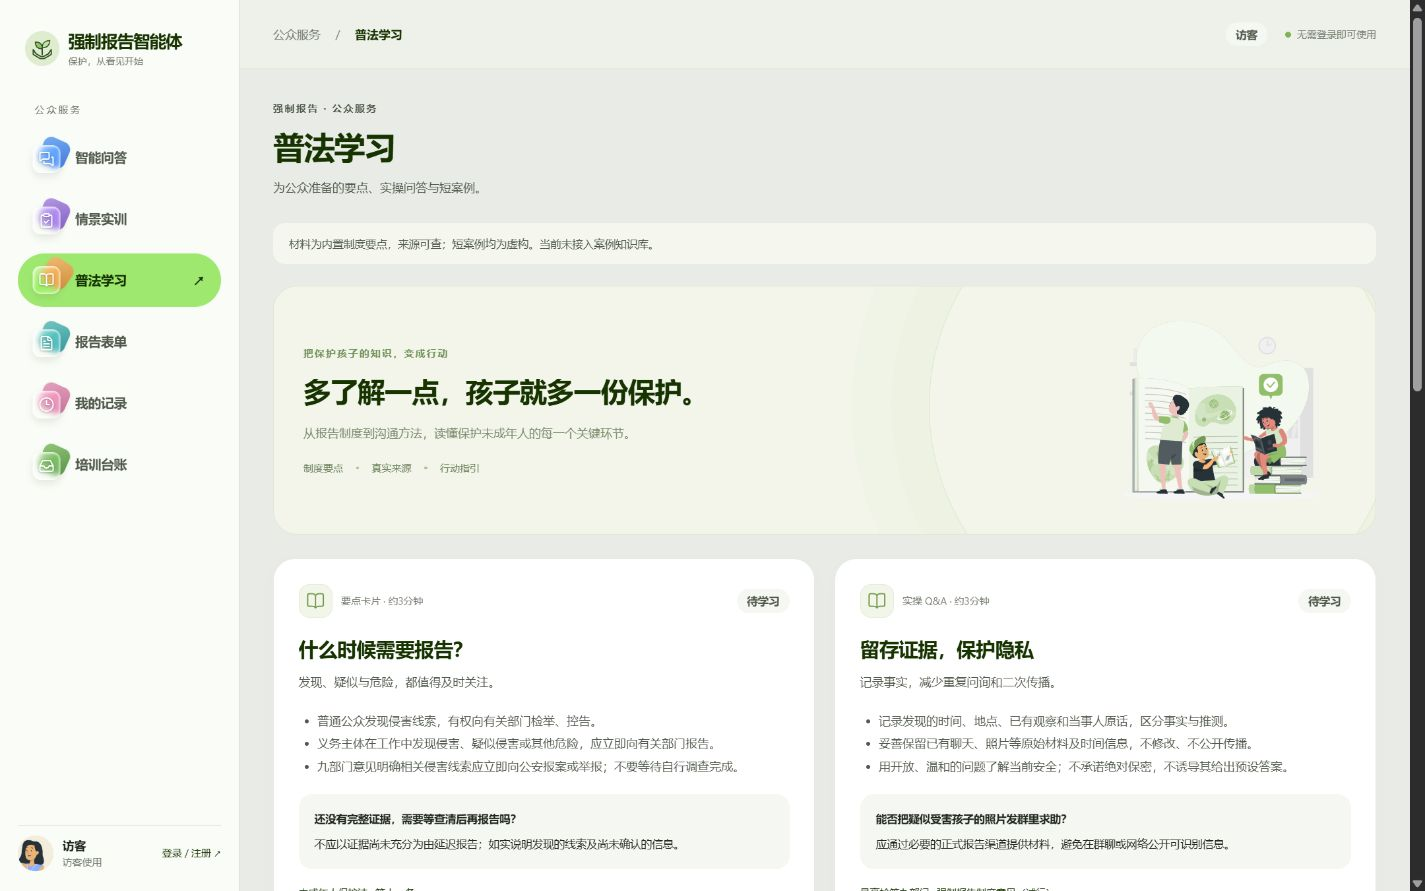
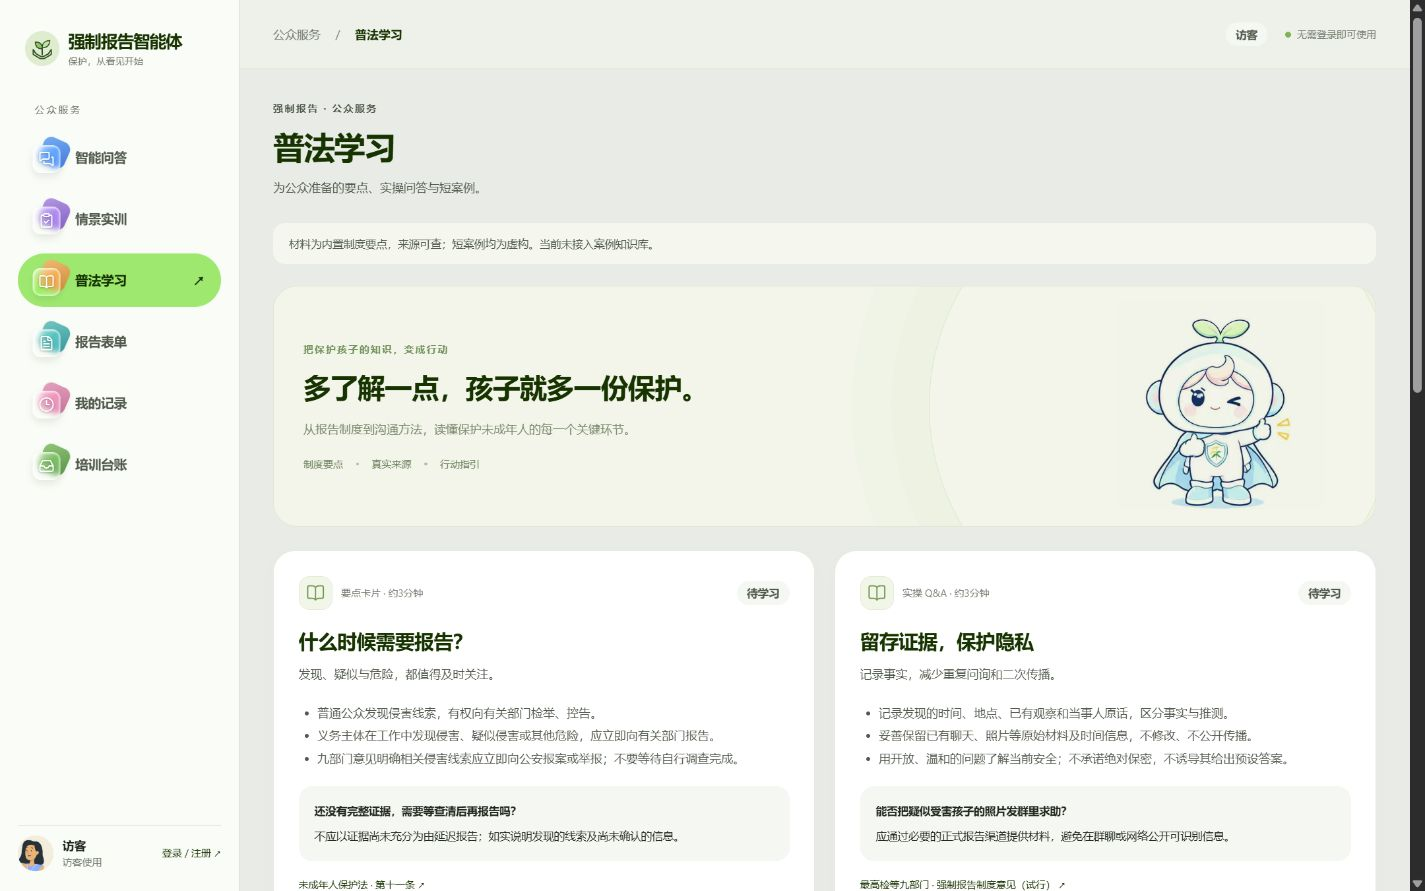
Extend mascot illustrations to learning and report guidance

diff --git a/public/visual.js b/public/visual.js
@@ -4,8 +4,8 @@ const motion = matchMedia('(prefers-reduced-motion: reduce)');
 const observed = new WeakSet();
 let installed = false, frame = 0, lastCard = null;
 export const art = (name, className = '', eager = false) => {
-  // Project-supplied artwork; the sheet's bottom-right pose greets new visitors.
-  if (name === 'mascot-wave') return `<span class="theme-art mascot-art mascot-sprite ${className}" aria-hidden="true"><img src="/assets/mascot/guardian-expressions.jpg" width="1254" height="1254" alt="" decoding="async" loading="${eager ? 'eager' : 'lazy'}"></span>`;
+  // Select greeting, encouragement and protection poses from the project's 3x3 artwork.
+  if (['mascot-wave', 'mascot-encourage', 'mascot-protect'].includes(name)) return `<span class="theme-art mascot-art mascot-sprite ${name} ${className}" aria-hidden="true"><img src="/assets/mascot/guardian-expressions.jpg" width="1254" height="1254" alt="" decoding="async" loading="${eager ? 'eager' : 'lazy'}"></span>`;
   const mascots = { 'mascot-question': ['/assets/mascot/guardian-question.png', 1078, 1459], 'mascot-confident': ['/assets/mascot/guardian-confident.png', 1254, 1254] };
   if (mascots[name]) { const [src, width, height] = mascots[name]; return `<img class="theme-art mascot-art ${className}" src="${src}" width="${width}" height="${height}" alt="" aria-hidden="true" decoding="async" loading="${eager ? 'eager' : 'lazy'}">`; }
   const files = { support: '/assets/visual/children-support.svg', learning: '/assets/visual/children-learning.svg', reading: '/assets/visual/children-reading.svg' };
@@ -13,7 +13,7 @@ export const art = (name, className = '', eager = false) => {
 };
 export function banner(kind) {
   const training = kind === 'training';
-  return `<section class="children-banner ${training ? 'training-banner' : 'learning-banner'}" data-reveal><div class="children-banner-copy"><span class="visual-eyebrow">${training ? '学会倾听，练习守护' : '把保护孩子的知识，变成行动'}</span><h2>${training ? '站在孩子身边，听见每一句需要。' : '多了解一点，孩子就多一份保护。'}</h2><p>${training ? '在虚构情景中练习识别、沟通与报告，让真实的保护更有准备。' : '从报告制度到沟通方法，读懂保护未成年人的每一个关键环节。'}</p><div class="banner-points"><span>${training ? '倾听与回应' : '制度要点'}</span><i></i><span>${training ? '风险识别' : '真实来源'}</span><i></i><span>${training ? '五步实训' : '行动指引'}</span></div></div>${art(training ? 'mascot-confident' : 'reading', 'banner-art', true)}</section>`;
+  return `<section class="children-banner ${training ? 'training-banner' : 'learning-banner'}" data-reveal><div class="children-banner-copy"><span class="visual-eyebrow">${training ? '学会倾听，练习守护' : '把保护孩子的知识，变成行动'}</span><h2>${training ? '站在孩子身边，听见每一句需要。' : '多了解一点，孩子就多一份保护。'}</h2><p>${training ? '在虚构情景中练习识别、沟通与报告，让真实的保护更有准备。' : '从报告制度到沟通方法，读懂保护未成年人的每一个关键环节。'}</p><div class="banner-points"><span>${training ? '倾听与回应' : '制度要点'}</span><i></i><span>${training ? '风险识别' : '真实来源'}</span><i></i><span>${training ? '五步实训' : '行动指引'}</span></div></div>${art(training ? 'mascot-confident' : 'mascot-encourage', 'banner-art', true)}</section>`;
 }
 export function emptyArtwork(title, description) {
   return `<div class="empty illustrated-empty">${art('mascot-wave')}<div><span class="visual-eyebrow">每一次行动，都值得留下记录</span><h3>${title}</h3><p class="muted">${description}</p></div></div>`;

diff --git a/public/credits.html b/public/credits.html
@@ -11,7 +11,7 @@
     <article class="credit-item"><img class="theme-art" src="/assets/visual/children-care.svg" alt="儿科医生用玩具安抚孩子" width="500" height="500"><h2>温柔照护 · Pediatrician</h2><p>Rafiki 系列，插画来自 <a href="https://storyset.com/illustration/pediatrician/rafiki" target="_blank" rel="noopener noreferrer">Storyset</a>。按项目配色调整。</p></article>
     <article class="credit-item"><img class="theme-art" src="/assets/visual/children-play.svg" alt="两个孩子装扮成小超人和恐龙一起玩耍" width="500" height="500"><h2>安心玩耍 · Kids playing with dolls</h2><p>Rafiki 系列，插画来自 <a href="https://storyset.com/illustration/kids-playing-with-dolls/rafiki" target="_blank" rel="noopener noreferrer">Storyset</a>。按项目配色调整。</p></article>
   </section>
-  <div class="credit-note"><strong>项目守护形象</strong><p>智能问答欢迎区、情景实训和记录空状态使用项目提供的形象稿。根据场景选用疑问、守护与挥手姿态。</p></div>
+  <div class="credit-note"><strong>项目守护形象</strong><p>智能问答欢迎区、学习与实训横幅、报告引导和记录空状态使用项目提供的形象稿。根据场景选用疑问、鼓励、守护与挥手姿态。</p></div>
   <div class="credit-note"><strong>成人用户头像 · Group</strong><p>侧栏五枚成人头像裁自 <a href="https://storyset.com/illustration/group/rafiki" target="_blank" rel="noopener noreferrer">Storyset Group · Rafiki</a>，分离人物后裁切头肩、添加浅色背景。同一访客或账号保持固定头像。</p></div>
   <div class="credit-note"><strong>Illustrations by Storyset</strong><p>上述插画依据 Storyset / Freepik License 使用，并保留可见署名。<a href="https://storyset.com/faqs" target="_blank" rel="noopener noreferrer">官方许可说明</a></p></div>
   <div class="credit-note"><strong>图标与动态交互</strong><p>界面图标采用 <a href="https://lucide.dev/" target="_blank" rel="noopener noreferrer">Lucide</a>，版权归 Lucide Contributors 及相关 Feather 作者所有。<a href="/assets/visual/licenses/lucide.txt" target="_blank" rel="noopener">完整许可证</a>。</p><p>淡入与柔光交互参考 <a href="https://reactbits.dev/" target="_blank" rel="noopener noreferrer">React Bits</a> 的 Fade Content / Spotlight Card，以及 <a href="https://reactbits.dev/c/text-animations/stroke-text" target="_blank" rel="noopener noreferrer">Stroke Text</a> 逐字描边填色动画，由本项目适配为原生 CSS/JavaScript。Copyright © 2026 David Haz。<a href="/assets/visual/licenses/react-bits.txt" target="_blank" rel="noopener">完整许可证</a>。</p><p>“双手守护新芽”标识为本项目绘制；登录页人物素材由项目提供。</p></div>

diff --git a/public/report.html b/public/report.html
@@ -43,7 +43,7 @@
         </form>
       </section>
       <aside class="report-aside">
-        <section class="child-support-card" data-reveal><div id="report-support-art"></div><span class="visual-eyebrow">让每个孩子，都被温柔以待</span><h2>您看见的，值得被认真对待。</h2><p>记录已知的情况，把保护交到能够行动的人手中。</p><a class="art-credit" href="https://storyset.com/people" target="_blank" rel="noopener noreferrer">儿童主题插画：Storyset</a></section>
+        <section class="child-support-card" data-reveal><div id="report-support-art"></div><span class="visual-eyebrow">让每个孩子，都被温柔以待</span><h2>您看见的，值得被认真对待。</h2><p>记录已知的情况，把保护交到能够行动的人手中。</p></section>
         <section class="panel assistant-panel" aria-labelledby="assistant-title"><div class="assistant-heading"><span class="assistant-icon">✦</span></div><h2 id="assistant-title">不确定是否需要报告？</h2><p class="muted">先与智能助手聊聊，了解报告信号、保护措施与证据留存建议。</p><a class="text-link" href="/ask" style="margin-top:22px">进入智能问答 ↗</a><p class="assistant-disclaimer">AI仅供辅助参考，不构成法律意见。紧急危险请直接拨打110。</p></section>
         <section class="process-card" aria-labelledby="process-title"><div class="eyebrow">WHAT HAPPENS NEXT</div><h2 id="process-title">提交之后，会发生什么？</h2><ol class="process-list"><li><span>1</span><div><strong>公安接收</strong><p>线索即时进入接收工作台。</p></div></li><li><span>2</span><div><strong>研判与人工复核</strong><p>AI 提供建议，工作人员确认。</p></div></li><li><span>3</span><div><strong>处置与协同保护</strong><p>按线索情况处置、帮扶或监督。</p></div></li></ol></section>
         <div class="aside-note"><svg viewBox="0 0 24 24" fill="none" stroke="currentColor" stroke-width="1.6"><rect x="5" y="10" width="14" height="11" rx="3"/><path d="M8 10V7a4 4 0 0 1 8 0v3m-4 5v2"/></svg><p>请妥善保管报告编号与查询凭证，避免在公开场合分享线索内容。</p></div>

diff --git a/public/visual.css b/public/visual.css
@@ -43,6 +43,9 @@
 .children-banner .banner-art.mascot-art{width:210px;height:210px;justify-self:center;transform:none}
 .mascot-sprite{position:relative;overflow:hidden;aspect-ratio:1}
 .mascot-sprite>img{position:absolute;display:block;width:300%;height:300%;max-width:none;left:-200%;top:-200%;pointer-events:none;user-select:none}
+.mascot-encourage>img{top:0}.mascot-protect>img{left:0}
+.child-support-card .mascot-sprite{width:170px;height:170px;max-width:100%;margin:0 auto 12px}
 .public-page .illustrated-empty>.mascot-sprite{height:auto;aspect-ratio:1}
 @media(max-width:1199px){.public-page .welcome-art.mascot-art{width:150px;height:190px}.children-banner .banner-art.mascot-art{width:170px;height:180px}}
 @media(max-width:767px){.public-page .welcome-art.mascot-art{width:112px;height:145px}.children-banner .banner-art.mascot-art{width:124px;height:144px}}
+.children-banner .banner-art.mascot-sprite{height:auto;aspect-ratio:1}

diff --git a/public/report.js b/public/report.js
@@ -7,7 +7,7 @@ import { art, emptyArtwork, installVisuals } from "/visual.js";
 const $ = id => document.getElementById(id);
 const form = $("report-form");
 installVisuals(document.querySelector(".report-container"));
-document.getElementById("report-support-art").innerHTML = art('support', '', true);
+document.getElementById("report-support-art").innerHTML = art('mascot-protect', '', true);
 const identities = ["未成年本人", "家长/监护人", "教师/教育工作者", "医护人员", "社区工作人员", "其他"];
 const types = ["身体虐待", "性侵害", "情感/精神虐待", "忽视/疏于照料", "家庭暴力", "暴力伤害", "拐卖", "遗弃", "组织乞讨", "自杀/自残", "其他"];
 const owner = learnerId();

diff --git a/docs/UI_PREVIEW.md b/docs/UI_PREVIEW.md
@@ -1,6 +1,6 @@
 # 强制报告智能体界面预览
 
-以下为登录首页及访客进入后的主要页面截图。截图采集于 2026 年 10 月 19 日至 25 日，浏览器视口为 **1440 × 900**，展示电脑端页面首屏。问答、实训、记录与台账截图已更新项目守护形象。
+以下为登录首页及访客进入后的主要页面截图。截图采集于 2026 年 10 月 19 日至 25 日，浏览器视口为 **1440 × 900**，展示电脑端页面首屏。功能页截图已更新项目守护形象。
 
 从登录页右上角点击“先以访客使用”，即可进入公众服务。访客无需注册，可使用智能问答、情景实训、普法学习和报告表单，并查看当前浏览器的记录与培训台账。
 
@@ -24,13 +24,13 @@
 
 ## 普法学习
 
-学习页以要点卡片、实操问答和短案例呈现报告制度、证据留存及隐私保护等内容，并提供来源链接和学习完成记录入口。
+学习页以要点卡片、实操问答和短案例呈现报告制度、证据留存及隐私保护等内容，并提供来源链接和学习完成记录入口。横幅采用点赞姿态的守护形象。
 
 ![普法学习首页，展示报告制度和证据保护的学习卡片](screenshots/04-guest-learning.png)
 
 ## 报告表单
 
-报告表单按身份与事件、事件详情、证据与联系分区填写，支持草稿保存。截图为尚未填写的首屏，右侧提供报告引导信息。
+报告表单按身份与事件、事件详情、证据与联系分区填写，支持草稿保存。截图为尚未填写的首屏，右侧使用伸手保护姿态的形象，配合报告引导信息。
 
 ![访客报告表单首屏，展示报告说明、填写进度和身份选择](screenshots/05-guest-report.png)
 
